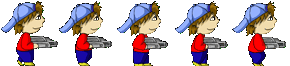
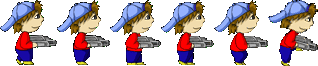
Added "step up" feature to step on small platforms on the way

diff --git a/src/game/scene.cpp b/src/game/scene.cpp
@@ -545,6 +545,38 @@ float Scene::findGroundLevel(Player* player) const
     return groundY;
 }
 
+Platform* Scene::findSteppablePlatformInPath(Player* player) const
+{
+    if (!player || !player->isGrounded()) return nullptr;
+
+    static constexpr int MAX_STEP_HEIGHT = 16;
+
+    float playerFeetY = player->getY();
+    // Use same narrow check as findFloorUnderPlayer so physics grounding also detects the platform
+    int playerLeft  = (int)(player->getX() - SURFACE_CHECK_WIDTH / 2);
+    int playerRight = (int)(player->getX() + SURFACE_CHECK_WIDTH / 2);
+
+    for (const auto& floor : lsFloor)
+    {
+        if (floor->isDead()) continue;
+        CollisionBox floorBox = floor->getCollisionBox();
+
+        // Step height: distance from player's feet to platform top
+        int floorTopY = floorBox.y;
+        float stepHeight = playerFeetY - (float)floorTopY;
+        if (stepHeight <= 0.0f || stepHeight > (float)MAX_STEP_HEIGHT) continue;
+
+        // Player center must overlap the platform horizontally (same as findFloorUnderPlayer)
+        int overlap = calculateHorizontalOverlap(
+            playerLeft, playerRight,
+            floorBox.x, floorBox.x + floorBox.w);
+        if (overlap < 1) continue;
+
+        return floor.get();
+    }
+    return nullptr;
+}
+
 /**
  * Factory method to create appropriate Shot subclass based on weapon type
  * @param pl Player firing the shot
@@ -1116,6 +1148,11 @@ GameState* Scene::handlePlayingState(float dt)
                 // Frozen during waking up animation (300ms) - no input processed
                 // Animation will auto-transition to IDLE via callback
             }
+            else if (player->isSteppingUp())
+            {
+                // Frozen during step-up animation (~100ms) - no input processed
+                // Animation will auto-transition to WALKING via setOnStateComplete callback
+            }
             else
             {
                 // Not climbing - normal movement + ladder entry
@@ -1156,10 +1193,16 @@ GameState* Scene::handlePlayingState(float dt)
                 else if (appInput.key(gameinf.getKeys(i).getLeft()))
                 {
                     player->moveLeft();
+                    Platform* steppable = findSteppablePlatformInPath(player);
+                    if (steppable)
+                        player->startStepUp((float)steppable->getCollisionBox().y);
                 }
                 else if (appInput.key(gameinf.getKeys(i).getRight()))
                 {
                     player->moveRight();
+                    Platform* steppable = findSteppablePlatformInPath(player);
+                    if (steppable)
+                        player->startStepUp((float)steppable->getCollisionBox().y);
                 }
                 else if ( player->getState() != PlayerState::IDLE )
                 {

diff --git a/src/entities/player.cpp b/src/entities/player.cpp
@@ -95,6 +95,13 @@ void Player::init()
     walkAnim = AnimSpriteSheet::load(&appGraph, walkPath);
     if (walkAnim)
     {
+        // Callback: "step" one-shot completes → resume walking
+        walkAnim->setOnStateComplete([this](const std::string& stateName) {
+            if (stateName == "step" && currentState == PlayerState::STEP_UP) {
+                yPos = stepUpTargetY;  // Apply Y snap only after animation completes
+                setState(PlayerState::WALKING);
+            }
+        });
         sprite.registerAnimation("walk", walkAnim.get());
     }
     else
@@ -307,6 +314,14 @@ void Player::startClimbing(Ladder* ladder)
     setX((float)ladder->getCenterX());
 }
 
+void Player::startStepUp(float targetY)
+{
+    stepUpTargetY = targetY;
+    yVelocity = 0.0f;
+    grounded = true;
+    setState(PlayerState::STEP_UP);
+}
+
 void Player::stopClimbing()
 {
     setState(PlayerState::IDLE);
@@ -424,6 +439,13 @@ void Player::update(float dt, Scene* scene)
             }
             break;
 
+        case PlayerState::STEP_UP:
+            if (walkAnim) {
+                walkAnim->update(dtMs);
+                // Completion → WALKING handled by setOnStateComplete callback
+            }
+            break;
+
         case PlayerState::IDLE:
         case PlayerState::SHOOTING:
         case PlayerState::DEAD:
@@ -482,6 +504,13 @@ void Player::updatePhysics(float dt, Scene* scene)
     // Don't apply gravity while climbing or dead
     // Check both state AND currentLadder for safety (prevents falling if state desyncs)
     if (isClimbing() || currentLadder != nullptr || isDead()) return;
+
+    // During step-up animation, freeze physics at current position
+    if (currentState == PlayerState::STEP_UP) {
+        grounded = true;
+        yVelocity = 0.0f;
+        return;
+    }
 
     // Find what's below us
     float groundY = scene->findGroundLevel(this);
@@ -750,6 +779,14 @@ void Player::setState(PlayerState newState)
         case PlayerState::WALKING:
             if (walkAnim) {
                 walkAnim->reset();
+                if (walkAnim->hasStates()) walkAnim->setState("walk");
+                sprite.setActiveAnimation("walk");
+            }
+            break;
+
+        case PlayerState::STEP_UP:
+            if (walkAnim && walkAnim->hasStates()) {
+                walkAnim->setState("step");
                 sprite.setActiveAnimation("walk");
             }
             break;

diff --git a/src/entities/player.h b/src/entities/player.h
@@ -35,7 +35,8 @@ enum class PlayerState
     WAKING_UP,  // Just reached ladder top, transitioning to platform
     SHOOTING,   // Shooting pose
     VICTORY,    // Victory celebration (from Aseprite JSON)
-    DEAD        // Death animation (uses Action system)
+    DEAD,       // Death animation (uses Action system)
+    STEP_UP     // Stepping up onto a short (≤16 px) platform
 };
 
 /**
@@ -103,6 +104,9 @@ private:
     Ladder* currentLadder;   // Ladder player is currently climbing (nullptr if not climbing)
     float climbSpeed;        // Climb speed in pixels per frame
     bool climbingMoving;     // True when player is actively moving up/down on ladder
+
+    // Step-up state
+    float stepUpTargetY = 0.0f;  // Platform top Y to lock to during STEP_UP
 
     // Physics/gravity state
     float yVelocity;         // Current vertical velocity (positive = falling)
@@ -172,6 +176,8 @@ public:
     void climbUp();
     void climbDown();
     bool isClimbing() const { return currentState == PlayerState::CLIMBING; }
+    bool isSteppingUp() const { return currentState == PlayerState::STEP_UP; }
+    void startStepUp(float targetY);
     bool canEnterLadder(Ladder* ladder) const;
     Ladder* getCurrentLadder() const { return currentLadder; }
     float getClimbSpeed() const { return climbSpeed; }

diff --git a/src/game/scene.h b/src/game/scene.h
@@ -436,6 +436,13 @@ public:
     float findGroundLevel(Player* player) const;
 
     /**
+     * @brief Finds a short (≤16 px tall) floor platform the player is walking into from the side
+     * @param player The player to check (must be grounded)
+     * @return Pointer to steppable platform if found, nullptr otherwise
+     */
+    Platform* findSteppablePlatformInPath(Player* player) const;
+
+    /**
      * @brief Spawns a one-shot animation effect centered at (x, y)
      * @param tmpl Template AnimSpriteSheet to clone (must not be null)
      * @param x Center X in screen coordinates
